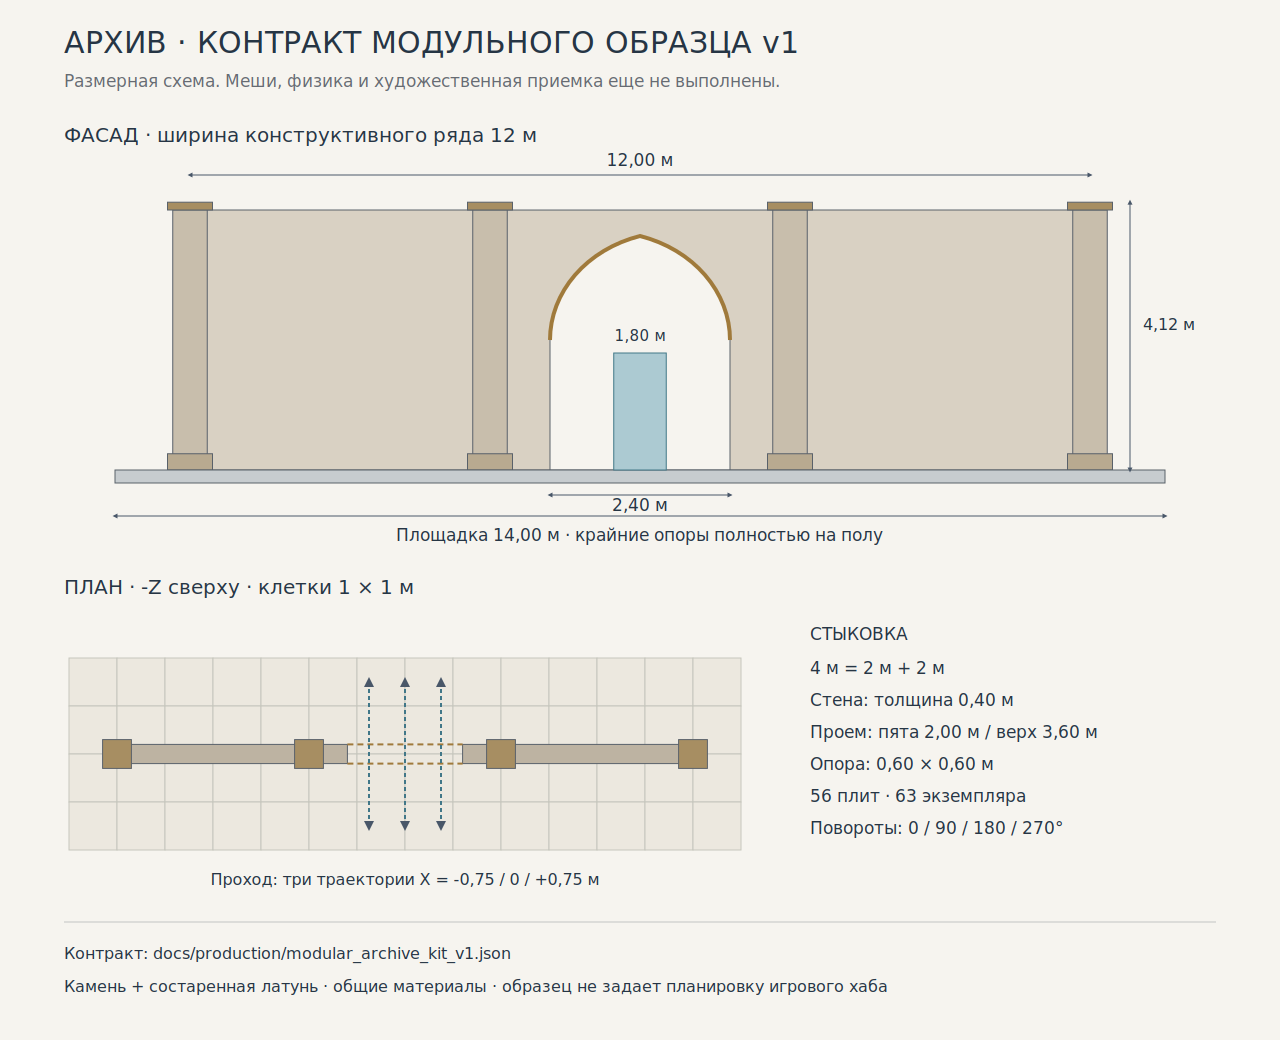
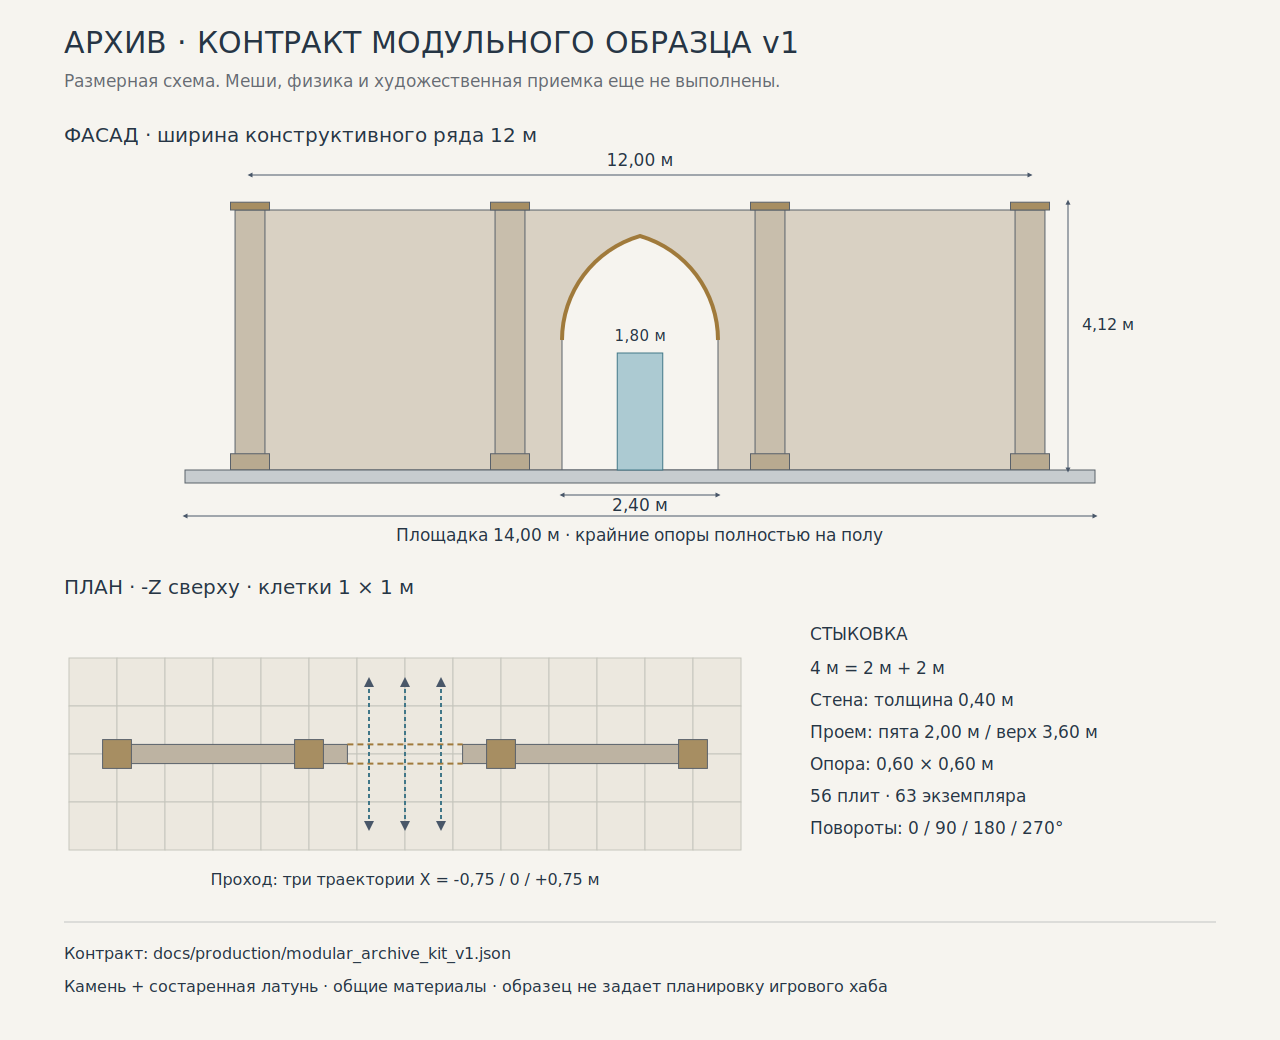
docs: record modular contract scope and pending production gates

diff --git a/tools/render_modular_kit_contract.py b/tools/render_modular_kit_contract.py
@@ -83,12 +83,13 @@ def render(contract, output):
     text(64,53,'АРХИВ · КОНТРАКТ МОДУЛЬНОГО ОБРАЗЦА v1',30)
     text(64,87,'Размерная схема. Меши, физика и художественная приемка еще не выполнены.',17,'#666b72')
     text(64,142,'ФАСАД · ширина конструктивного ряда 12 м',20)
-    fx=lambda x:640+x*75
+    front_scale=65
+    fx=lambda x:640+x*front_scale
     fy=lambda y:470-y*65
     for p in walls:
         m=modules[p['module']]; x=p['position'][0]
         if p['module']!='arch_4m':
-            rect(fx(x+m['bounds_min'][0]),fy(4),m['bounds_max'][0]*150,260,'#d9d1c3')
+            rect(fx(x+m['bounds_min'][0]),fy(4),(m['bounds_max'][0]-m['bounds_min'][0])*front_scale,260,'#d9d1c3')
         else:
             points=[(-a,0)]+profile+[(a,0)]
             outer=f'M {fx(-2)} {fy(0)} L {fx(2)} {fy(0)} L {fx(2)} {fy(4)} L {fx(-2)} {fy(4)} Z '
@@ -96,16 +97,16 @@ def render(contract, output):
             svg.append(f'<path d="{outer+hole}" fill="#d9d1c3" fill-rule="evenodd" stroke="#59616a"/>')
             svg.append('<polyline points="'+' '.join(f'{fx(px):.3f},{fy(py):.3f}' for px,py in profile)+'" fill="none" stroke="#a07a3b" stroke-width="4"/>')
     for x,_,_ in piers:
-        rect(fx(x-.23),fy(4),.46*75,4*65,'#c8beac')
-        rect(fx(x-.3),fy(4.12),.6*75,.12*65,'#a78e62')
-        rect(fx(x-.3),fy(.25),.6*75,.25*65,'#b8aa90')
-    rect(fx(xmin),fy(0), (xmax-xmin)*75,13,'#c7cccf')
+        rect(fx(x-.23),fy(4),.46*front_scale,4*65,'#c8beac')
+        rect(fx(x-.3),fy(4.12),.6*front_scale,.12*65,'#a78e62')
+        rect(fx(x-.3),fy(.25),.6*front_scale,.25*65,'#b8aa90')
+    rect(fx(xmin),fy(0), (xmax-xmin)*front_scale,13,'#c7cccf')
     # Dimension guides and a deliberately schematic capsule scale marker.
     line(fx(-6),175,fx(6),175,arrows=True);text(640,166,'12,00 м',17,anchor='middle')
     line(fx(-a),495,fx(a),495,arrows=True);text(640,511,'2,40 м',17,anchor='middle')
-    line(1130,fy(0),1130,fy(4.12),arrows=True);text(1143,330,'4,12 м',16)
+    line(1068,fy(0),1068,fy(4.12),arrows=True);text(1082,330,'4,12 м',16)
     line(fx(xmin),516,fx(xmax),516,arrows=True);text(640,541,'Площадка 14,00 м · крайние опоры полностью на полу',17,anchor='middle')
-    rect(fx(-.35),fy(1.8),.7*75,1.8*65,'#accad2','#417788')
+    rect(fx(-.35),fy(1.8),.7*front_scale,1.8*65,'#accad2','#417788')
     text(640,fy(1.8)-12,'1,80 м',15,anchor='middle')
     text(64,594,'ПЛАН · -Z сверху · клетки 1 × 1 м',20)
     px=lambda x:405+x*48

diff --git a/docs/production/IMPLEMENTATION_PLAN.md b/docs/production/IMPLEMENTATION_PLAN.md
@@ -76,7 +76,8 @@ Foundation acceptance:
 - [x] Validate the approved Blender→GLB→Godot static export contract with a minimal one-meter fixture: scale/Y-up, transforms, pivot, normals, UV, material and separate script-free wrapper. See `EXPORT_SAMPLE.md`; production art/performance acceptance remains separate.
 - [x] Restore authenticated Xvfb TCP / Godot X11 / Vulkan Forward+ graphical preflight, with pinned local packages and repeatable runner. Engine and six-specimen material capability tests PASS; see `MATERIAL_PREFLIGHT.md` and 2026-09-23 evidence. The previous AF_UNIX-based environment blocker was an incorrect inference from a TCP-disabled invocation.
 - [x] Create compact shared material library baseline: six shared resources, eleven original 1K maps, neutral/warm/cool graphical review and 4x4 tiling PASS. See `MATERIAL_LIBRARY.md`, `MATERIAL_PREFLIGHT.md` and 2026-10-02 evidence. Full MAT inventory variants/quality tiers and representative target-hardware acceptance remain open.
-- [ ] Produce one modular Archive kit sample.
+- [x] Define the modular Archive sample brief and assembly contract: five module types, grid/pivots, passage/collision/UV rules, file ownership and acceptance sequence. See `MODULAR_ARCHIVE_KIT.md`, the versioned JSON and dimensioned drawing. Analytical compatibility is checked; no mesh/physics/art acceptance is implied.
+- [ ] Produce one modular Archive kit sample using `MODULAR_ARCHIVE_KIT.md`; author the five meshes, wrappers and isolated assembly, then execute its actual import/collision/visual/LFS gates.
 - [ ] Produce one Wing I hero mechanism sample with gameplay pivots.
 - [ ] Import samples in Godot and validate scale, orientation, pivots, materials, collision and warnings.
 - [ ] Run representative performance check before mass asset production.
@@ -121,6 +122,7 @@ main
     ├── feature/03-art-foundation/pipeline-spec
     ├── feature/03-art-foundation/blender-export
     ├── feature/03-art-foundation/material-library
+    ├── feature/03-art-foundation/modular-kit-contract
     ├── feature/03-art-foundation/modular-archive-kit
     └── feature/03-art-foundation/import-validation
 ```
@@ -184,3 +186,20 @@ validated feature. Graphical engine startup/eight-autoload/safe-exit smoke passe
 again on that epic; actual output: `evidence/material_epic_smoke_2026-10-02.log`.
 This stable slice follows the normal epic-to-main PR route; Git merge history
 records the final integration SHA.
+
+## Modular contract checkpoint — 2026-10-02
+
+Feature: `feature/03-art-foundation/modular-kit-contract`, from synchronized
+main/Art Foundation `1a7171cb756cfc0e208312ebbf9257af634a898a`.
+The existing kit, architectural sheet and hub reference were retrieved at that
+commit, hash-verified and inspected. The sample now has a concrete five-module
+brief, machine-readable dimensions/placements and a dimensioned front/plan view.
+Analytical checks cover straight/corner joins at four rotations, 4 m to 2+2 m
+substitution, support on the floor and a three-lane clearance envelope.
+
+This completes the architecture/brief step. It does not complete sample modeling,
+runtime physics, visual art acceptance, payload transfer or representative GPU
+profiling. Next executable work is the bounded five-part sample in
+`feature/03-art-foundation/modular-archive-kit`, following the acceptance sequence
+in `MODULAR_ARCHIVE_KIT.md`. The same contract supplies its dimensions and paths;
+do not redesign the grid or repeat solved environment investigations from zero.

diff --git a/docs/production/MODULAR_ARCHIVE_KIT.md b/docs/production/MODULAR_ARCHIVE_KIT.md
@@ -73,6 +73,16 @@ ceiling on every part. Exceeding one requires reviewing the cause before export.
 [Machine-readable contract](modular_archive_kit_v1.json) contains exact bounds,
 anchors, the arch profile and sample placements. [Dimensioned drawing](evidence/modular_kit_contract_2026-10-02.svg)
 is an engineering diagram of this contract, not a screenshot of finished art.
+Its source renderer is `tools/render_modular_kit_contract.py` (Python standard
+library). Reproduce the SVG and analytical checks with:
+
+```sh
+python tools/render_modular_kit_contract.py --output /absolute/path/to/kit-contract.svg
+```
+
+The checked-in PNG is a visual review copy rendered with CairoSVG 2.8.2; it is
+not required by the game. Actual design-check output and artifact hashes are in
+`evidence/modular_kit_contract_2026-10-02.log`.
 
 - Godot: +Y up, -Z primary front, +X horizontal wall span. Blender: +Z up,
   +Y primary front. Use the already verified glTF Y-up conversion once.

diff --git a/docs/production/ASSET_INDEX.md b/docs/production/ASSET_INDEX.md
@@ -107,3 +107,12 @@ the production sheet is a visual reference, not a texture source.
 All six are available for sample asset integration. Representative scene and
 target-hardware acceptance remain open; these statuses do not promote the full
 MAT inventory to final shipping acceptance.
+
+## Modular sample design contract — 2026-10-02
+
+`MODULAR_ARCHIVE_KIT.md` and `modular_archive_kit_v1.json` define the next bounded
+sample: ARCH-004 walls (2/4 m), ARCH-005 arch, ARCH-006 floor and ARCH-009 pier.
+They identify the canonical image blobs, planned source/runtime paths, shared
+materials, snapping/collision rules and pending acceptance gates. The dimensioned
+drawing is a design artifact. These planned meshes are not yet runtime assets;
+the four ARCH inventory rows remain unaccepted.
